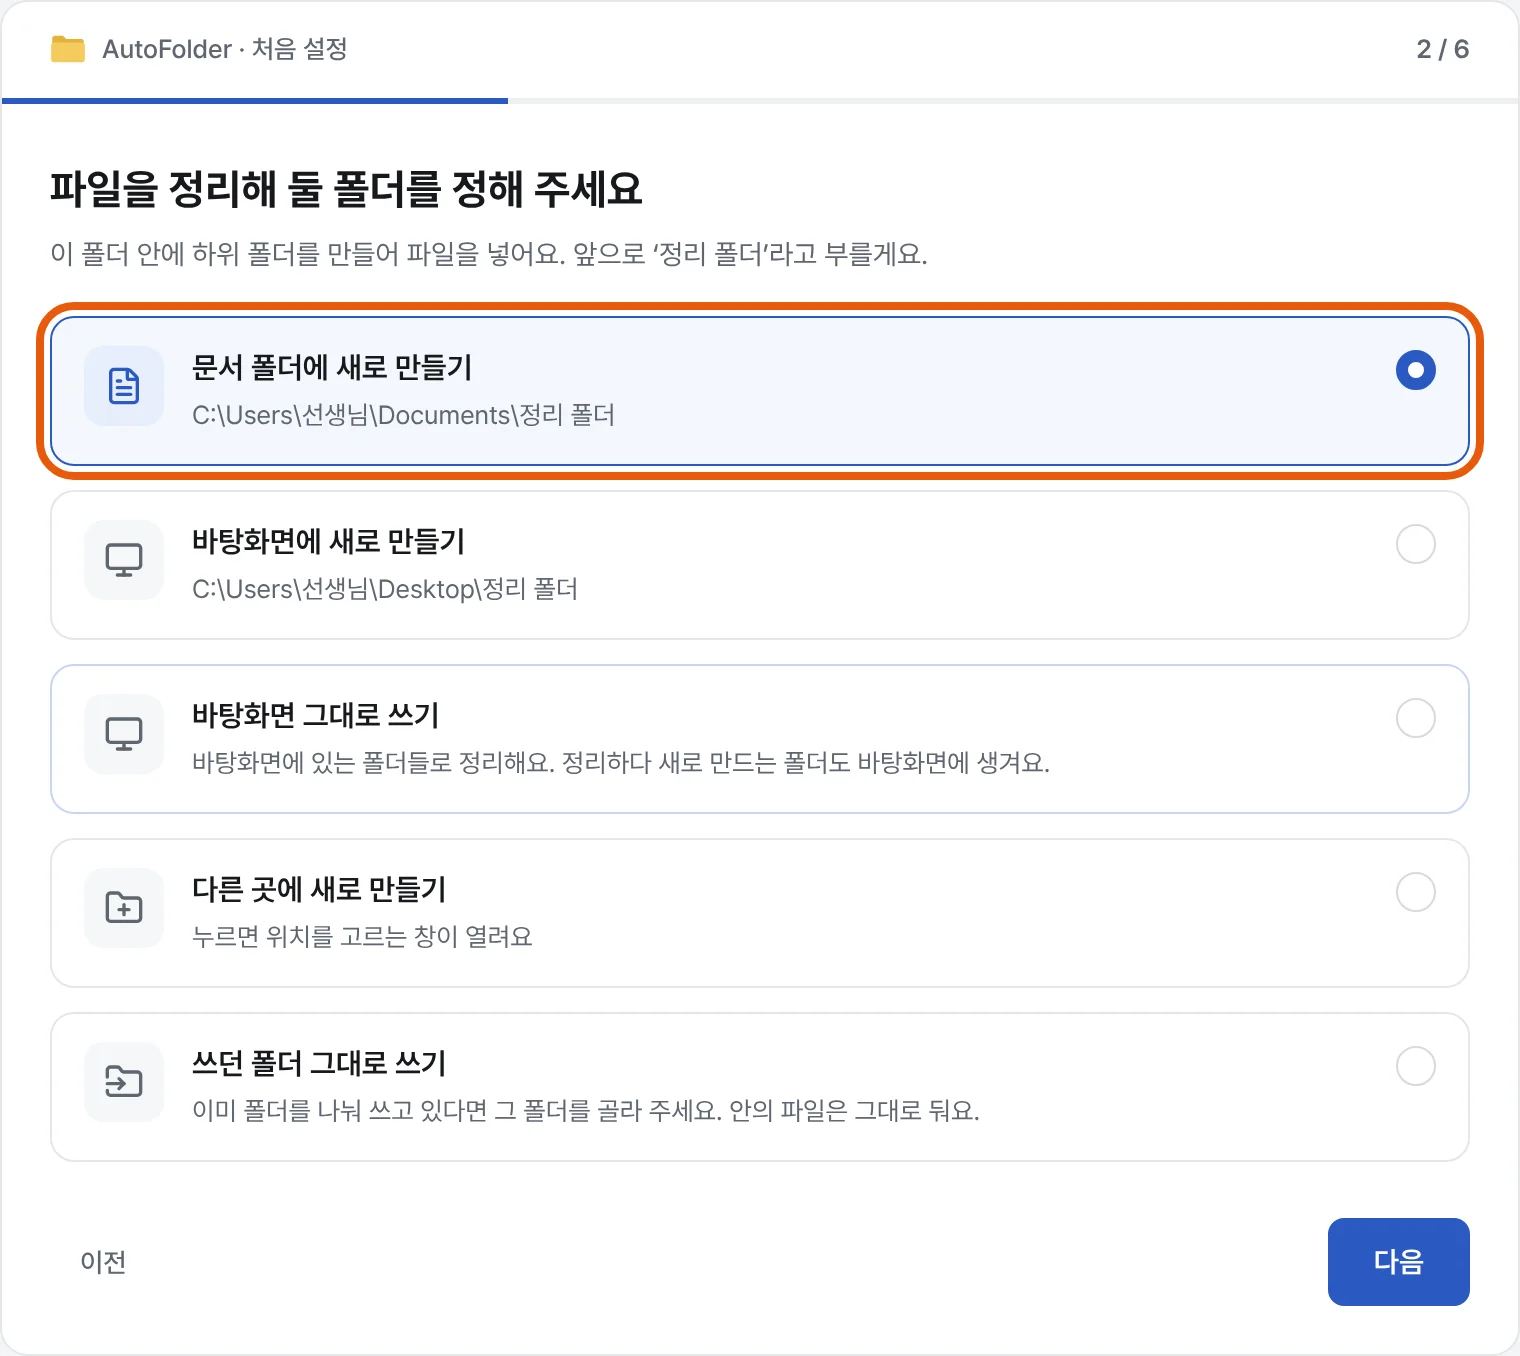
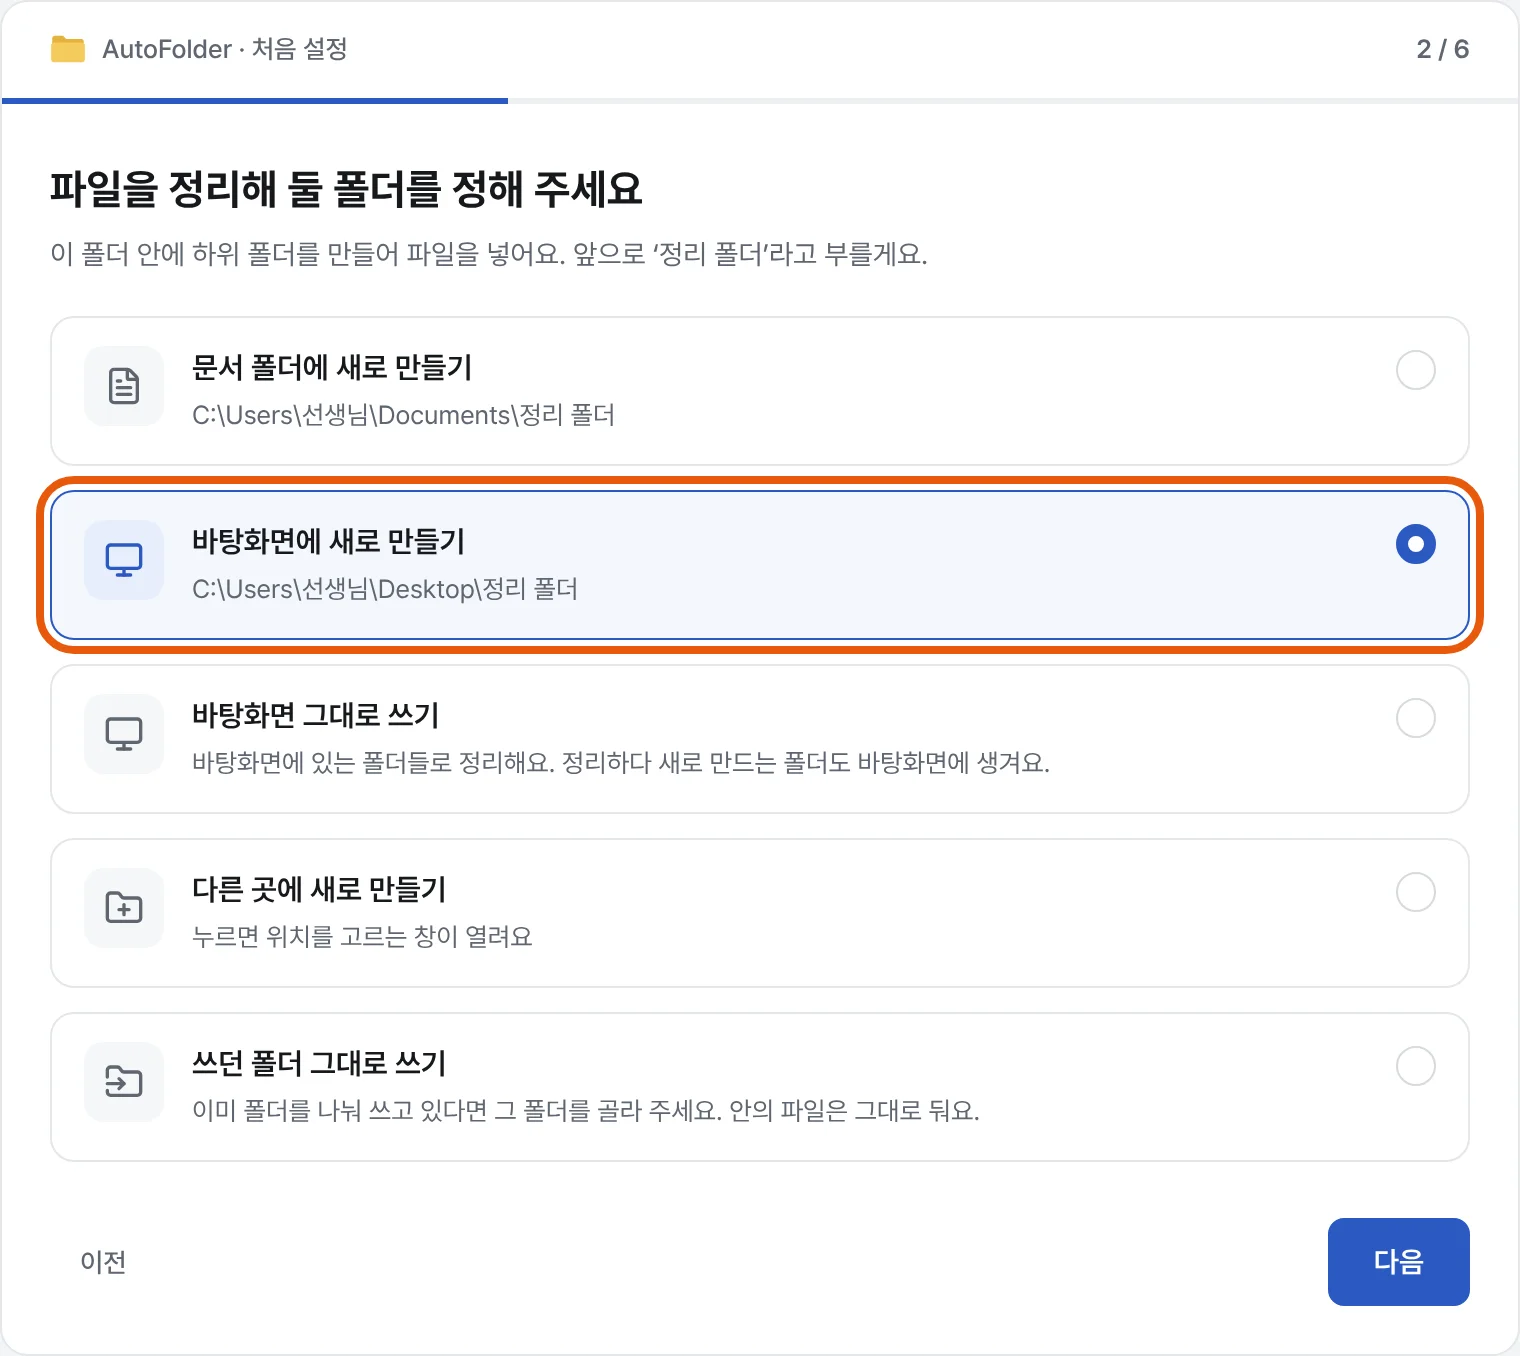
설명서: 정리 폴더 위치는 '바탕화면에 새로 만들기'를 권함 (#38)
사용자 요청: 문서 폴더보다 바탕화면에 만드는 게 가장 편하다(설명서만).
- 처음 설정 2장: '바탕화면에 새로 만들기'를 고르고 [다음]이 가장 편하다 + 바탕화면에서 바로 열어 볼 수 있다.
- 그림: 바탕화면에 새로 만들기를 골라 둔 채로 찍음(shots.mjs), 확인 장(fr6)도 바탕화면 경로로.
- 프로그램은 그대로(설명서만 바뀐 병합이라 새 버전은 나오지 않음).

Claude-Session: https://claude.ai/code/session_01TC8Pbu5bQjk9y5TqXsKHr4

diff --git a/docs/manual/index.html b/docs/manual/index.html
@@ -418,10 +418,11 @@
       tip: "처음 설정은 [다음]만 눌러도 괜찮아요. 모두 나중에 설정에서 바꿀 수 있어요." },
 
     { id: "setup-2", ch: "setup", hl: true, img: "fr2.webp",
-      alt: "처음 설정 2단계: 문서 폴더에 새로 만들기를 고른 모습",
+      alt: "처음 설정 2단계: 바탕화면에 새로 만들기를 고른 모습",
       title: "정리 폴더 위치 정하기",
       body: [
-        "‘정리 폴더’는 정리한 파일이 모이는 큰 폴더예요. 잘 모르겠으면 맨 위 ==문서 폴더에 새로 만들기== 그대로 [[다음]].",
+        "‘정리 폴더’는 정리한 파일이 모이는 큰 폴더예요. ==바탕화면에 새로 만들기==를 고르고 [[다음]]을 누르는 게 가장 편해요.",
+        "바탕화면에 ‘정리 폴더’가 생겨서, 정리한 파일을 바탕화면에서 바로 열어 볼 수 있어요.",
       ],
       tip: "바탕화면에 있는 폴더들로 정리하려면 ‘바탕화면 그대로 쓰기’, 이미 다른 곳에 폴더를 나눠 쓰고 있다면 ‘쓰던 폴더 그대로 쓰기’를 고르세요. 안의 파일은 건드리지 않아요." },
 
